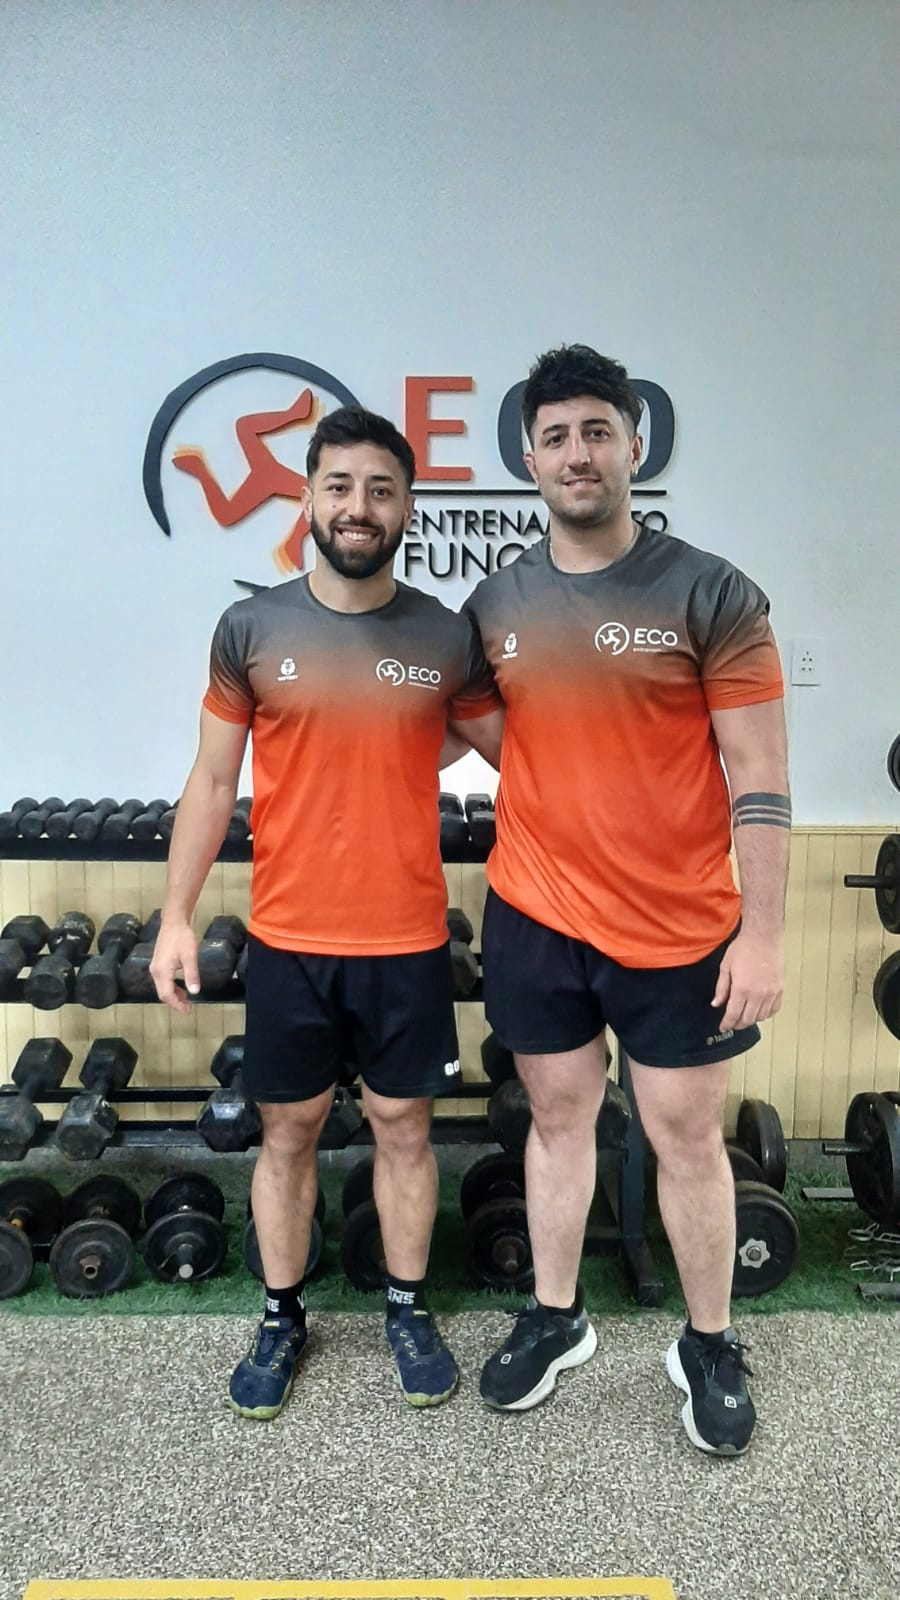
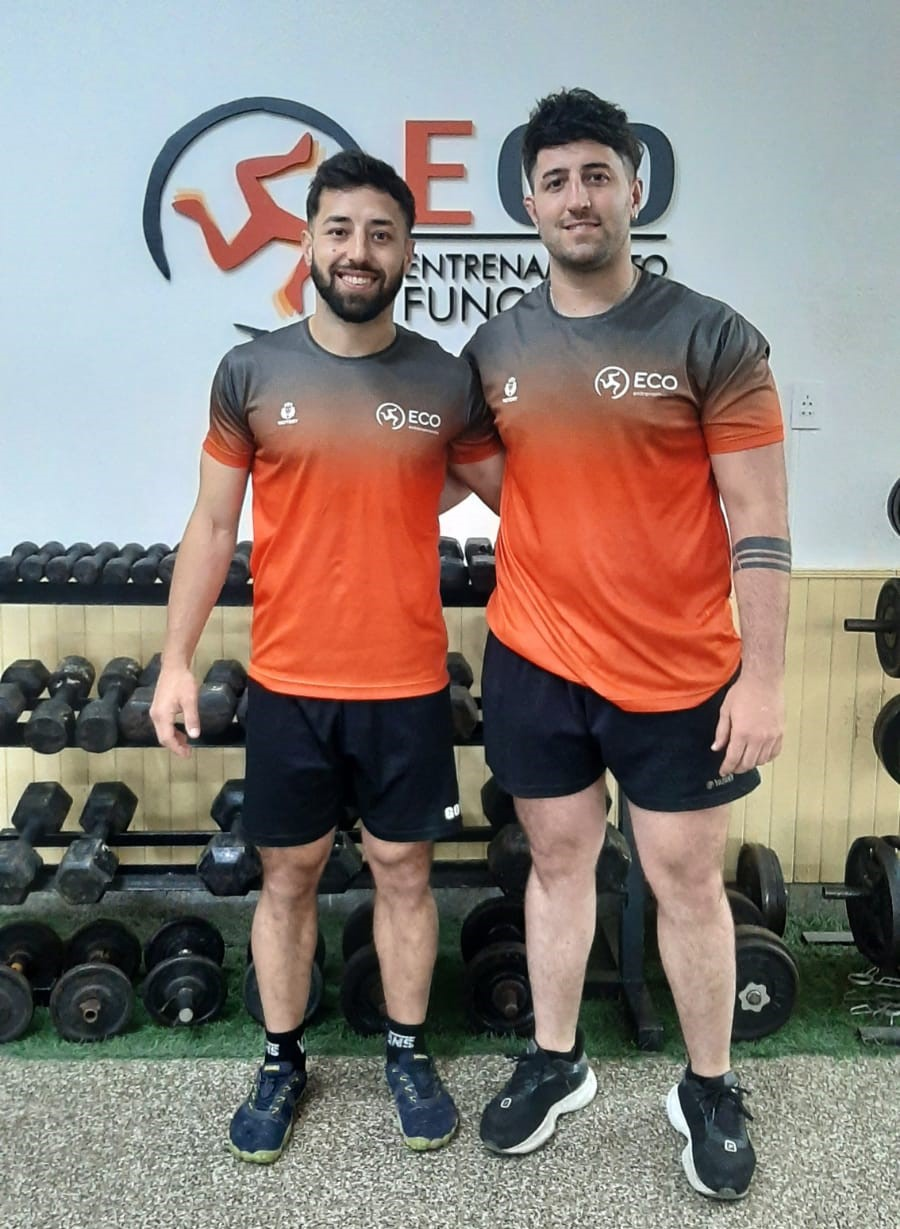
ajustes en imagen page nosotros

diff --git a/css/style.css b/css/style.css
@@ -175,8 +175,8 @@ overflow-x: hidden;}
 
 .hermanos .zoom img { border: 3px solid orange;
   border-radius: 10px;
-  width: 450px;
-  height: 700px ;
+  width: 400px;
+  height: 600px ;
   margin-top: 20px;
   transition: transform 0.2s;
   cursor: pointer;}
